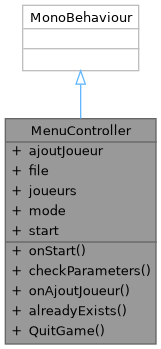
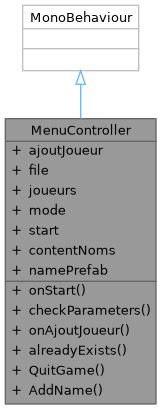
deploy: 16f2e052eab9d8f7181b5fb9875081aafb18f49b

diff --git a/html/classMenuController-members.html b/html/classMenuController-members.html
@@ -75,16 +75,19 @@ $(function() {
 
 <p>This is the complete list of members for <a class="el" href="classMenuController.html">MenuController</a>, including all inherited members.</p>
 <table class="directory">
-  <tr bgcolor="#f0f0f0" class="even"><td class="entry"><b>ajoutJoueur</b> (defined in <a class="el" href="classMenuController.html">MenuController</a>)</td><td class="entry"><a class="el" href="classMenuController.html">MenuController</a></td><td class="entry"></td></tr>
-  <tr bgcolor="#f0f0f0" class="odd"><td class="entry"><b>alreadyExists</b>(string joueur) (defined in <a class="el" href="classMenuController.html">MenuController</a>)</td><td class="entry"><a class="el" href="classMenuController.html">MenuController</a></td><td class="entry"><span class="mlabel">inline</span></td></tr>
-  <tr bgcolor="#f0f0f0" class="even"><td class="entry"><b>checkParameters</b>() (defined in <a class="el" href="classMenuController.html">MenuController</a>)</td><td class="entry"><a class="el" href="classMenuController.html">MenuController</a></td><td class="entry"><span class="mlabel">inline</span></td></tr>
+  <tr bgcolor="#f0f0f0" class="even"><td class="entry"><b>AddName</b>(string name) (defined in <a class="el" href="classMenuController.html">MenuController</a>)</td><td class="entry"><a class="el" href="classMenuController.html">MenuController</a></td><td class="entry"><span class="mlabel">inline</span></td></tr>
+  <tr bgcolor="#f0f0f0" class="odd"><td class="entry"><b>ajoutJoueur</b> (defined in <a class="el" href="classMenuController.html">MenuController</a>)</td><td class="entry"><a class="el" href="classMenuController.html">MenuController</a></td><td class="entry"></td></tr>
+  <tr bgcolor="#f0f0f0" class="even"><td class="entry"><b>alreadyExists</b>(string joueur) (defined in <a class="el" href="classMenuController.html">MenuController</a>)</td><td class="entry"><a class="el" href="classMenuController.html">MenuController</a></td><td class="entry"><span class="mlabel">inline</span></td></tr>
+  <tr bgcolor="#f0f0f0" class="odd"><td class="entry"><b>checkParameters</b>() (defined in <a class="el" href="classMenuController.html">MenuController</a>)</td><td class="entry"><a class="el" href="classMenuController.html">MenuController</a></td><td class="entry"><span class="mlabel">inline</span></td></tr>
+  <tr bgcolor="#f0f0f0" class="even"><td class="entry"><b>contentNoms</b> (defined in <a class="el" href="classMenuController.html">MenuController</a>)</td><td class="entry"><a class="el" href="classMenuController.html">MenuController</a></td><td class="entry"></td></tr>
   <tr bgcolor="#f0f0f0" class="odd"><td class="entry"><b>file</b> (defined in <a class="el" href="classMenuController.html">MenuController</a>)</td><td class="entry"><a class="el" href="classMenuController.html">MenuController</a></td><td class="entry"></td></tr>
   <tr bgcolor="#f0f0f0" class="even"><td class="entry"><b>joueurs</b> (defined in <a class="el" href="classMenuController.html">MenuController</a>)</td><td class="entry"><a class="el" href="classMenuController.html">MenuController</a></td><td class="entry"></td></tr>
   <tr bgcolor="#f0f0f0" class="odd"><td class="entry"><b>mode</b> (defined in <a class="el" href="classMenuController.html">MenuController</a>)</td><td class="entry"><a class="el" href="classMenuController.html">MenuController</a></td><td class="entry"></td></tr>
-  <tr bgcolor="#f0f0f0" class="even"><td class="entry"><b>onAjoutJoueur</b>() (defined in <a class="el" href="classMenuController.html">MenuController</a>)</td><td class="entry"><a class="el" href="classMenuController.html">MenuController</a></td><td class="entry"><span class="mlabel">inline</span></td></tr>
-  <tr bgcolor="#f0f0f0" class="odd"><td class="entry"><b>onStart</b>() (defined in <a class="el" href="classMenuController.html">MenuController</a>)</td><td class="entry"><a class="el" href="classMenuController.html">MenuController</a></td><td class="entry"><span class="mlabel">inline</span></td></tr>
-  <tr bgcolor="#f0f0f0" class="even"><td class="entry"><b>QuitGame</b>() (defined in <a class="el" href="classMenuController.html">MenuController</a>)</td><td class="entry"><a class="el" href="classMenuController.html">MenuController</a></td><td class="entry"><span class="mlabel">inline</span></td></tr>
-  <tr bgcolor="#f0f0f0" class="odd"><td class="entry"><b>start</b> (defined in <a class="el" href="classMenuController.html">MenuController</a>)</td><td class="entry"><a class="el" href="classMenuController.html">MenuController</a></td><td class="entry"></td></tr>
+  <tr bgcolor="#f0f0f0" class="even"><td class="entry"><b>namePrefab</b> (defined in <a class="el" href="classMenuController.html">MenuController</a>)</td><td class="entry"><a class="el" href="classMenuController.html">MenuController</a></td><td class="entry"></td></tr>
+  <tr bgcolor="#f0f0f0" class="odd"><td class="entry"><b>onAjoutJoueur</b>() (defined in <a class="el" href="classMenuController.html">MenuController</a>)</td><td class="entry"><a class="el" href="classMenuController.html">MenuController</a></td><td class="entry"><span class="mlabel">inline</span></td></tr>
+  <tr bgcolor="#f0f0f0" class="even"><td class="entry"><b>onStart</b>() (defined in <a class="el" href="classMenuController.html">MenuController</a>)</td><td class="entry"><a class="el" href="classMenuController.html">MenuController</a></td><td class="entry"><span class="mlabel">inline</span></td></tr>
+  <tr bgcolor="#f0f0f0" class="odd"><td class="entry"><b>QuitGame</b>() (defined in <a class="el" href="classMenuController.html">MenuController</a>)</td><td class="entry"><a class="el" href="classMenuController.html">MenuController</a></td><td class="entry"><span class="mlabel">inline</span></td></tr>
+  <tr bgcolor="#f0f0f0" class="even"><td class="entry"><b>start</b> (defined in <a class="el" href="classMenuController.html">MenuController</a>)</td><td class="entry"><a class="el" href="classMenuController.html">MenuController</a></td><td class="entry"></td></tr>
 </table></div><!-- contents -->
 <!-- start footer part -->
 <hr class="footer"/><address class="footer"><small>

diff --git a/html/classMenuController.html b/html/classMenuController.html
@@ -81,7 +81,7 @@ Inheritance diagram for MenuController:</div>
 <div class="dyncontent">
 <div class="center"><img src="classMenuController__inherit__graph.png" border="0" usemap="#aMenuController_inherit__map" alt="Inheritance graph"/></div>
 <map name="aMenuController_inherit__map" id="aMenuController_inherit__map">
-<area shape="rect" title=" " alt="" coords="5,119,156,344"/>
+<area shape="rect" title=" " alt="" coords="5,119,156,404"/>
 <area shape="rect" title=" " alt="" coords="23,5,139,71"/>
 <area shape="poly" title=" " alt="" coords="83,84,83,119,78,119,78,84"/>
 </map>
@@ -91,7 +91,7 @@ Collaboration diagram for MenuController:</div>
 <div class="dyncontent">
 <div class="center"><img src="classMenuController__coll__graph.png" border="0" usemap="#aMenuController_coll__map" alt="Collaboration graph"/></div>
 <map name="aMenuController_coll__map" id="aMenuController_coll__map">
-<area shape="rect" title=" " alt="" coords="5,119,156,344"/>
+<area shape="rect" title=" " alt="" coords="5,119,156,404"/>
 <area shape="rect" title=" " alt="" coords="23,5,139,71"/>
 <area shape="poly" title=" " alt="" coords="83,84,83,119,78,119,78,84"/>
 </map>
@@ -114,6 +114,9 @@ bool&#160;</td><td class="memItemRight" valign="bottom"><b>alreadyExists</b> (st
 <tr class="memitem:a86d70954c632f38316ab8656a1435a53" id="r_a86d70954c632f38316ab8656a1435a53"><td class="memItemLeft" align="right" valign="top"><a id="a86d70954c632f38316ab8656a1435a53" name="a86d70954c632f38316ab8656a1435a53"></a>
 void&#160;</td><td class="memItemRight" valign="bottom"><b>QuitGame</b> ()</td></tr>
 <tr class="separator:a86d70954c632f38316ab8656a1435a53"><td class="memSeparator" colspan="2">&#160;</td></tr>
+<tr class="memitem:aba40f312bf157e46ecda141020d9a70f" id="r_aba40f312bf157e46ecda141020d9a70f"><td class="memItemLeft" align="right" valign="top"><a id="aba40f312bf157e46ecda141020d9a70f" name="aba40f312bf157e46ecda141020d9a70f"></a>
+void&#160;</td><td class="memItemRight" valign="bottom"><b>AddName</b> (string name)</td></tr>
+<tr class="separator:aba40f312bf157e46ecda141020d9a70f"><td class="memSeparator" colspan="2">&#160;</td></tr>
 </table><table class="memberdecls">
 <tr class="heading"><td colspan="2"><h2 class="groupheader"><a id="pub-attribs" name="pub-attribs"></a>
 Public Attributes</h2></td></tr>
@@ -132,6 +135,12 @@ TMP_Dropdown&#160;</td><td class="memItemRight" valign="bottom"><b>mode</b></td>
 <tr class="memitem:a00e46b3c0989b01fef2feb72548ca6a4" id="r_a00e46b3c0989b01fef2feb72548ca6a4"><td class="memItemLeft" align="right" valign="top"><a id="a00e46b3c0989b01fef2feb72548ca6a4" name="a00e46b3c0989b01fef2feb72548ca6a4"></a>
 Button&#160;</td><td class="memItemRight" valign="bottom"><b>start</b></td></tr>
 <tr class="separator:a00e46b3c0989b01fef2feb72548ca6a4"><td class="memSeparator" colspan="2">&#160;</td></tr>
+<tr class="memitem:a5ecbb0f445107ddc4d097e3c47fc3486" id="r_a5ecbb0f445107ddc4d097e3c47fc3486"><td class="memItemLeft" align="right" valign="top"><a id="a5ecbb0f445107ddc4d097e3c47fc3486" name="a5ecbb0f445107ddc4d097e3c47fc3486"></a>
+Transform&#160;</td><td class="memItemRight" valign="bottom"><b>contentNoms</b></td></tr>
+<tr class="separator:a5ecbb0f445107ddc4d097e3c47fc3486"><td class="memSeparator" colspan="2">&#160;</td></tr>
+<tr class="memitem:ab168de6d0bc5fd60c05f3d186c147e7e" id="r_ab168de6d0bc5fd60c05f3d186c147e7e"><td class="memItemLeft" align="right" valign="top"><a id="ab168de6d0bc5fd60c05f3d186c147e7e" name="ab168de6d0bc5fd60c05f3d186c147e7e"></a>
+GameObject&#160;</td><td class="memItemRight" valign="bottom"><b>namePrefab</b></td></tr>
+<tr class="separator:ab168de6d0bc5fd60c05f3d186c147e7e"><td class="memSeparator" colspan="2">&#160;</td></tr>
 </table>
 <hr/>The documentation for this class was generated from the following file:<ul>
 <li>Assets/Scripts/Controller/<b>MenuController.cs</b></li>
